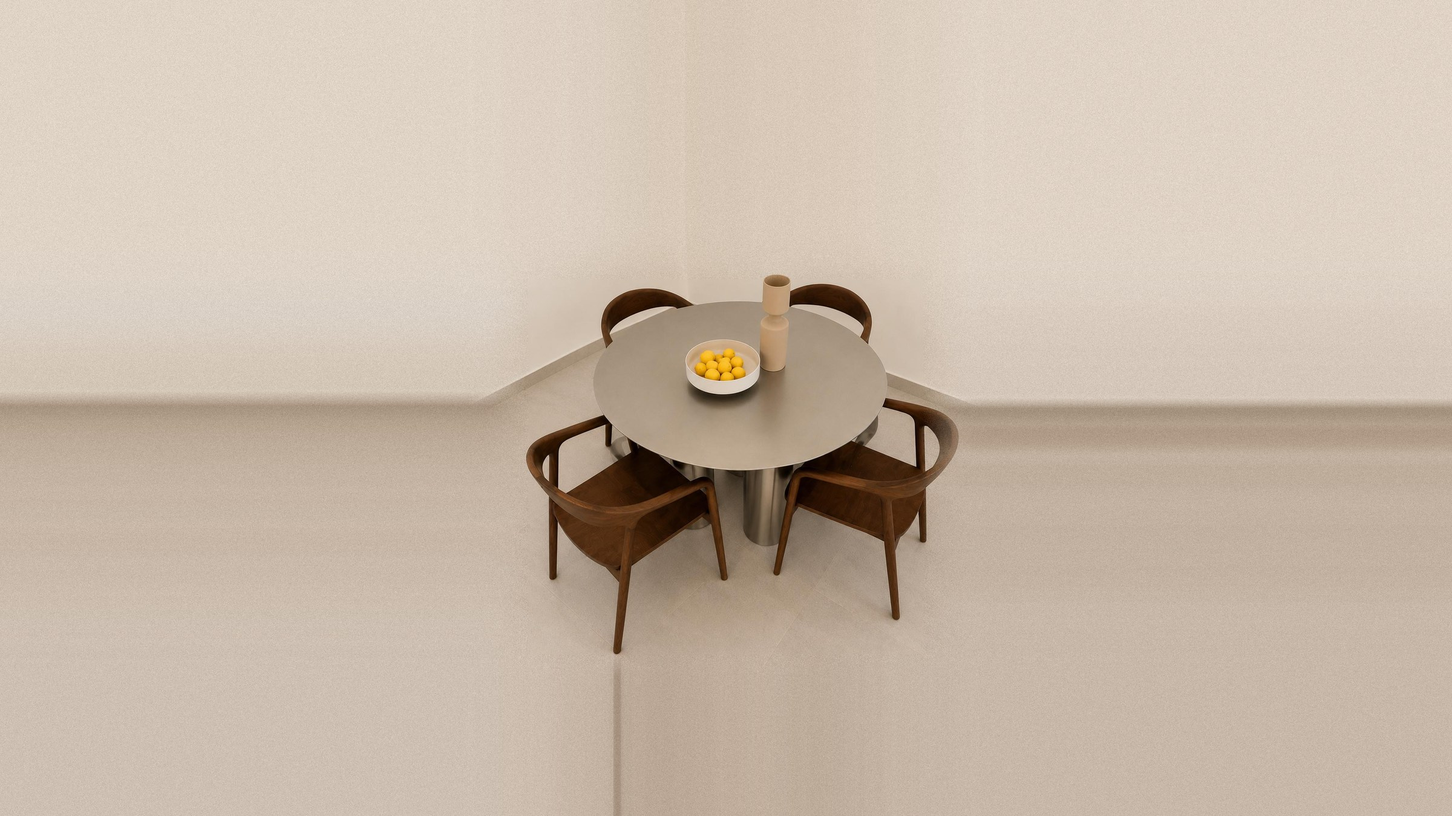
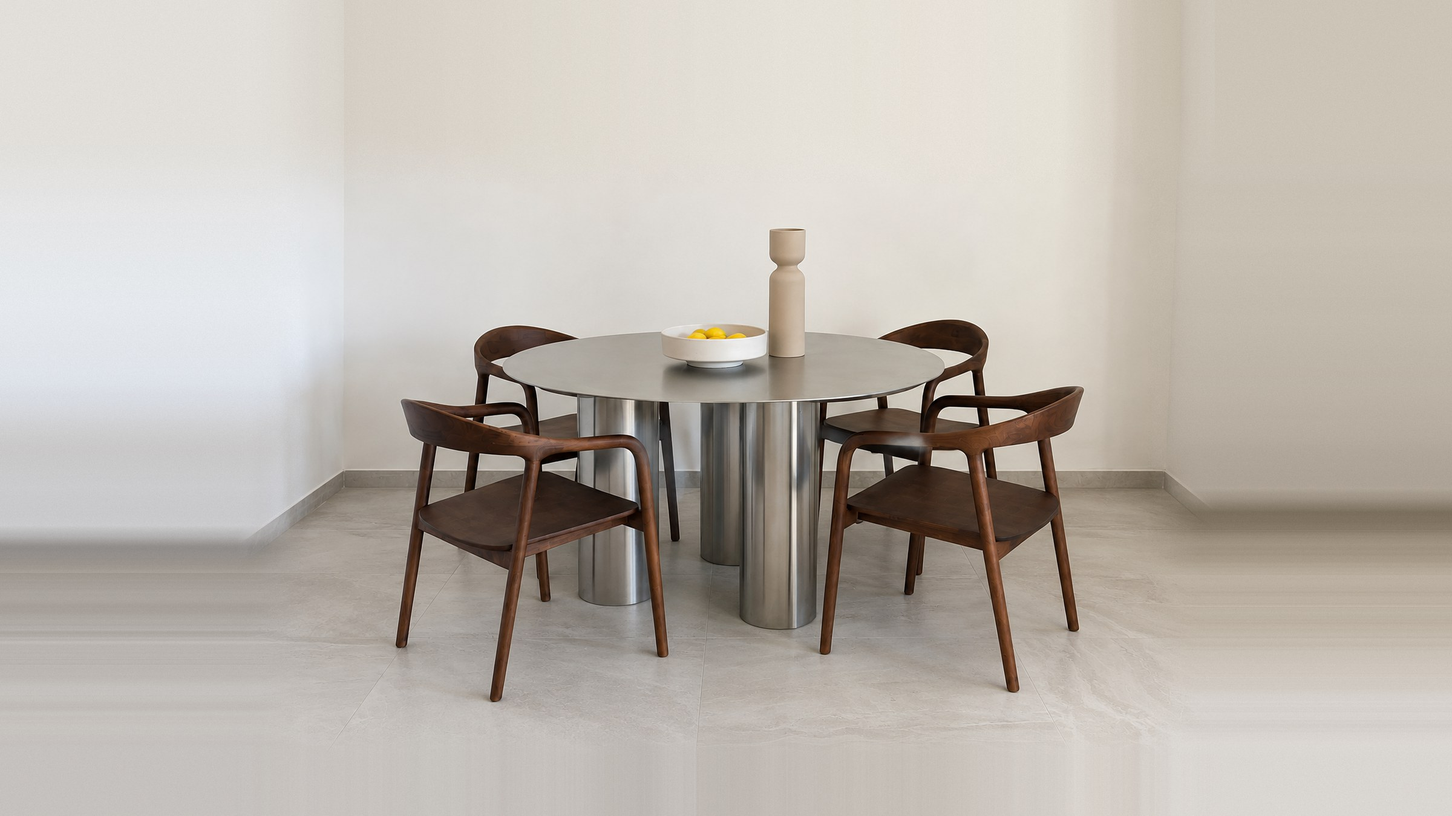
Use the real landscape photograph for the desktop hero (#33)
Replaces the synthetic widescreen asset — which was built by stretching the
square-ish shot and had 74% of its canvas generated — with the landscape
photograph, which needs far less.

The source is 1536x1024 (aspect 1.50) with furniture from 19% to 92% of its
height. Two things kept it from being used directly: the clean bands are too
thin (19% of wall, 8% of floor, against ~28% and ~14% needed for the copy and
the CTA), and 1.50 is narrower than a 1920x1080 viewport, so `cover` would
crop it vertically by a different amount on every landscape screen — exactly
the non-determinism the band system exists to avoid.

So the canvas is extended to 16:9 with the same technique as the previous
asset: per-row and per-column averaging of a 48px edge band so nothing
streaks, a feather bounded by each side's clean margin, and grain matched to
the photo's own noise. Only flat wall and flat floor are extended and no
furniture is invented. Being already landscape, the photo occupies far more of
the frame than the previous crop could.

Landscape bands move 34/20 to 28/14 to match. Mobile and tablet portrait are
untouched and still use Hero_mobile.JPG.

Also points og:image and twitter:image at the new asset: it is what the page
actually shows, and 16:9 suits a share card better than the old 1.1:1 crop.

Six-viewport assertion pass green, screenshots reviewed at phone and laptop.

diff --git a/products/river-box-table/index.html b/products/river-box-table/index.html
@@ -21,7 +21,7 @@
   <link rel="preconnect" href="https://fonts.googleapis.com">
   <link rel="preconnect" href="https://fonts.gstatic.com" crossorigin>
   <link href="https://fonts.googleapis.com/css2?family=Cormorant:ital,wght@0,300;0,400;0,500;1,300;1,400&family=Frank+Ruhl+Libre:wght@300;400;500;700&family=Heebo:wght@300;400;500;600&family=Montserrat:wght@300;400;500;600&display=swap" rel="stylesheet">
-  <link rel="stylesheet" href="/css/styles.css?v=22">
+  <link rel="stylesheet" href="/css/styles.css?v=23">
   <script type="application/ld+json">{"@context": "https://schema.org", "@type": "Product", "name": "Rivet Box Table", "image": ["https://www.steelo-design.com/images/products/RiverBoxTable/1.webp", "https://www.steelo-design.com/images/products/RiverBoxTable/2.webp"], "sku": "river-box-table", "brand": {"@type": "Brand", "name": "Steelo"}, "category": "שידת צד", "material": "נירוסטה 304", "offers": {"@type": "Offer", "url": "https://www.steelo-design.com/products/river-box-table/", "priceCurrency": "ILS", "price": 1200, "availability": "https://schema.org/InStock", "itemCondition": "https://schema.org/NewCondition"}, "description": "מפרט טכני: • חומר: 100% נירוסטה (Stainless Steel) • מידות: 40×30×49 ס״מ (אורך × רוחב × גובה) • גימור: מתכת מלוטשת וקלה לתחזוקה. שידת צד מינימליסטית שמשלבת אסתטיקה תעשייתית עם פונקציונליות יומיומית. המבנה הגיאומטרי הנקי ושורת הניטים החשופים מעניקים לה נוכחות על-זמנית שמתאימה לכל חלל. • מתאים כשולחן צד, שידת לילה או יחידת אחסון קומפקטית. • כולל שני מדפים לאחסון ספרים וחפצים יומיומיים."}</script>
   <script type="application/ld+json">{"@context": "https://schema.org", "@type": "BreadcrumbList", "itemListElement": [{"@type": "ListItem", "position": 1, "name": "בית", "item": "https://www.steelo-design.com/"}, {"@type": "ListItem", "position": 2, "name": "הקולקציה", "item": "https://www.steelo-design.com/#collection"}, {"@type": "ListItem", "position": 3, "name": "Rivet Box Table", "item": "https://www.steelo-design.com/products/river-box-table/"}]}</script>
 </head>

diff --git a/products/ripple/index.html b/products/ripple/index.html
@@ -21,7 +21,7 @@
   <link rel="preconnect" href="https://fonts.googleapis.com">
   <link rel="preconnect" href="https://fonts.gstatic.com" crossorigin>
   <link href="https://fonts.googleapis.com/css2?family=Cormorant:ital,wght@0,300;0,400;0,500;1,300;1,400&family=Frank+Ruhl+Libre:wght@300;400;500;700&family=Heebo:wght@300;400;500;600&family=Montserrat:wght@300;400;500;600&display=swap" rel="stylesheet">
-  <link rel="stylesheet" href="/css/styles.css?v=22">
+  <link rel="stylesheet" href="/css/styles.css?v=23">
   <script type="application/ld+json">{"@context": "https://schema.org", "@type": "Product", "name": "Ripple Stool", "image": ["https://www.steelo-design.com/images/products/RippleStool/1.webp", "https://www.steelo-design.com/images/products/RippleStool/2.webp"], "sku": "ripple", "brand": {"@type": "Brand", "name": "Steelo"}, "category": "מגזינים", "material": "ברזל צבוע", "offers": {"@type": "Offer", "url": "https://www.steelo-design.com/products/ripple/", "priceCurrency": "ILS", "price": 450, "availability": "https://schema.org/InStock", "itemCondition": "https://schema.org/NewCondition"}, "description": "סטול ורסטילי בעיצוב גלי, שמשלב אסתטיקה מודרנית עם עוצמה תעשייתית. ה‑RIPPLE הוא שידת צד מנירוסטה-stool בעיצוב מינימליסטי השואב השראה מתנועת האדווה, עשוי מתכת בגימור כסוף מטאלי שמעניק לו מראה נקי, יוקרתי ומתוחכם. בזכות המבנה החכם והאוורירי שלו, הוא יכול לשמש כשרפרף ישיבה מסוגנן, שולחן צד אלגנטי לצד הספה, שידת לילה ייחודית או מעמד למגזינים וספרים."}</script>
   <script type="application/ld+json">{"@context": "https://schema.org", "@type": "BreadcrumbList", "itemListElement": [{"@type": "ListItem", "position": 1, "name": "בית", "item": "https://www.steelo-design.com/"}, {"@type": "ListItem", "position": 2, "name": "הקולקציה", "item": "https://www.steelo-design.com/#collection"}, {"@type": "ListItem", "position": 3, "name": "Ripple Stool", "item": "https://www.steelo-design.com/products/ripple/"}]}</script>
 </head>

diff --git a/products/elephant-dining/index.html b/products/elephant-dining/index.html
@@ -21,7 +21,7 @@
   <link rel="preconnect" href="https://fonts.googleapis.com">
   <link rel="preconnect" href="https://fonts.gstatic.com" crossorigin>
   <link href="https://fonts.googleapis.com/css2?family=Cormorant:ital,wght@0,300;0,400;0,500;1,300;1,400&family=Frank+Ruhl+Libre:wght@300;400;500;700&family=Heebo:wght@300;400;500;600&family=Montserrat:wght@300;400;500;600&display=swap" rel="stylesheet">
-  <link rel="stylesheet" href="/css/styles.css?v=22">
+  <link rel="stylesheet" href="/css/styles.css?v=23">
   <script type="application/ld+json">{"@context": "https://schema.org", "@type": "Product", "name": "Elephant Dining", "image": ["https://www.steelo-design.com/images/products/ElephantDining/1.webp", "https://www.steelo-design.com/images/products/ElephantDining/2.webp"], "sku": "elephant-dining", "brand": {"@type": "Brand", "name": "Steelo"}, "category": "שולחן אוכל", "material": "נירוסטה 304", "offers": {"@type": "Offer", "url": "https://www.steelo-design.com/products/elephant-dining/", "priceCurrency": "ILS", "price": 5000, "availability": "https://schema.org/InStock", "itemCondition": "https://schema.org/NewCondition"}, "description": "שולחן אוכל Elephant Leg הוא הצהרה עיצובית יוצאת דופן. השולחן מציג נוכחות מרשימה, המשלבת בין חומריות תעשייתית לבין קווים גיאומטריים מתוחכמים. השולחן מתאים לאירוח של 5-7 סועדים, עשוי נירוסטה איכותית בגימור מלוטש ויוקרתי. המבנה שלו מדגיש את היופי הגולמי של המתכת תוך שמירה על מראה נקי, מודרני וקליל באופן מפתיע."}</script>
   <script type="application/ld+json">{"@context": "https://schema.org", "@type": "BreadcrumbList", "itemListElement": [{"@type": "ListItem", "position": 1, "name": "בית", "item": "https://www.steelo-design.com/"}, {"@type": "ListItem", "position": 2, "name": "הקולקציה", "item": "https://www.steelo-design.com/#collection"}, {"@type": "ListItem", "position": 3, "name": "Elephant Dining", "item": "https://www.steelo-design.com/products/elephant-dining/"}]}</script>
 </head>

diff --git a/products/plie/index.html b/products/plie/index.html
@@ -21,7 +21,7 @@
   <link rel="preconnect" href="https://fonts.googleapis.com">
   <link rel="preconnect" href="https://fonts.gstatic.com" crossorigin>
   <link href="https://fonts.googleapis.com/css2?family=Cormorant:ital,wght@0,300;0,400;0,500;1,300;1,400&family=Frank+Ruhl+Libre:wght@300;400;500;700&family=Heebo:wght@300;400;500;600&family=Montserrat:wght@300;400;500;600&display=swap" rel="stylesheet">
-  <link rel="stylesheet" href="/css/styles.css?v=22">
+  <link rel="stylesheet" href="/css/styles.css?v=23">
   <script type="application/ld+json">{"@context": "https://schema.org", "@type": "Product", "name": "Plié", "image": ["https://www.steelo-design.com/images/products/PLIE/1.webp", "https://www.steelo-design.com/images/products/PLIE/2.webp", "https://www.steelo-design.com/images/products/PLIE/3.webp", "https://www.steelo-design.com/images/products/PLIE/4.webp"], "sku": "plie", "brand": {"@type": "Brand", "name": "Steelo"}, "category": "שולחן סלון", "material": "נירוסטה 304", "offers": {"@type": "Offer", "url": "https://www.steelo-design.com/products/plie/", "priceCurrency": "ILS", "price": 2700, "availability": "https://schema.org/InStock", "itemCondition": "https://schema.org/NewCondition"}, "description": "Plié הוא שולחן סלון מנירוסטה מוברשת בעיצוב מינימליסטי ונקי, בהשראת עבודותיה של המעצבת הצרפתייה Maria Pergay. הוא מיוצר מכיפוף מתכת רציף שיוצר צורה אלגנטית וייחודית, עם מקום אחסון למגזינים, ספרים ועיתונים בתוך רגלי השולחן. השולחן מתאים לסלון מודרני, חלל אירוח או משרד."}</script>
   <script type="application/ld+json">{"@context": "https://schema.org", "@type": "BreadcrumbList", "itemListElement": [{"@type": "ListItem", "position": 1, "name": "בית", "item": "https://www.steelo-design.com/"}, {"@type": "ListItem", "position": 2, "name": "הקולקציה", "item": "https://www.steelo-design.com/#collection"}, {"@type": "ListItem", "position": 3, "name": "Plié", "item": "https://www.steelo-design.com/products/plie/"}]}</script>
 </head>

diff --git a/products/loop/index.html b/products/loop/index.html
@@ -21,7 +21,7 @@
   <link rel="preconnect" href="https://fonts.googleapis.com">
   <link rel="preconnect" href="https://fonts.gstatic.com" crossorigin>
   <link href="https://fonts.googleapis.com/css2?family=Cormorant:ital,wght@0,300;0,400;0,500;1,300;1,400&family=Frank+Ruhl+Libre:wght@300;400;500;700&family=Heebo:wght@300;400;500;600&family=Montserrat:wght@300;400;500;600&display=swap" rel="stylesheet">
-  <link rel="stylesheet" href="/css/styles.css?v=22">
+  <link rel="stylesheet" href="/css/styles.css?v=23">
   <script type="application/ld+json">{"@context": "https://schema.org", "@type": "Product", "name": "Loop", "image": ["https://www.steelo-design.com/images/products/LoopSideTable/1.webp", "https://www.steelo-design.com/images/products/LoopSideTable/2.webp", "https://www.steelo-design.com/images/products/LoopSideTable/3.webp"], "sku": "loop", "brand": {"@type": "Brand", "name": "Steelo"}, "category": "שידת צד", "material": "נירוסטה 304", "offers": {"@type": "Offer", "url": "https://www.steelo-design.com/products/loop/", "priceCurrency": "ILS", "price": 1200, "availability": "https://schema.org/InStock", "itemCondition": "https://schema.org/NewCondition"}, "description": "שולחן Loop בעיצוב מינימליסטי וייחודי שמתאים לכל מקום בבית. בזכות המראה הנקי והמבריק שלו, הוא משדרג בקלות כל חלל ומשלב בין סטייל לפרקטיקה. רב-שימושי: מתאים כשולחן צד לסלון, שולחן קפה קטן או כשידת לילה מעוצבת ליד המיטה. עשוי נירוסטה איכותית עם ליטוש ידני למראה יוקרתי ועמידות לאורך זמן."}</script>
   <script type="application/ld+json">{"@context": "https://schema.org", "@type": "BreadcrumbList", "itemListElement": [{"@type": "ListItem", "position": 1, "name": "בית", "item": "https://www.steelo-design.com/"}, {"@type": "ListItem", "position": 2, "name": "הקולקציה", "item": "https://www.steelo-design.com/#collection"}, {"@type": "ListItem", "position": 3, "name": "Loop", "item": "https://www.steelo-design.com/products/loop/"}]}</script>
 </head>

diff --git a/products/magazine-rack-curves/index.html b/products/magazine-rack-curves/index.html
@@ -21,7 +21,7 @@
   <link rel="preconnect" href="https://fonts.googleapis.com">
   <link rel="preconnect" href="https://fonts.gstatic.com" crossorigin>
   <link href="https://fonts.googleapis.com/css2?family=Cormorant:ital,wght@0,300;0,400;0,500;1,300;1,400&family=Frank+Ruhl+Libre:wght@300;400;500;700&family=Heebo:wght@300;400;500;600&family=Montserrat:wght@300;400;500;600&display=swap" rel="stylesheet">
-  <link rel="stylesheet" href="/css/styles.css?v=22">
+  <link rel="stylesheet" href="/css/styles.css?v=23">
   <script type="application/ld+json">{"@context": "https://schema.org", "@type": "Product", "name": "Magazine Rack Curves", "image": ["https://www.steelo-design.com/images/products/MagazineRackCurves/1.webp", "https://www.steelo-design.com/images/products/MagazineRackCurves/2.webp"], "sku": "magazine-rack-curves", "brand": {"@type": "Brand", "name": "Steelo"}, "category": "מגזינים", "material": "ברזל צבוע", "offers": {"@type": "Offer", "url": "https://www.steelo-design.com/products/magazine-rack-curves/", "priceCurrency": "ILS", "price": 450, "availability": "https://schema.org/InStock", "itemCondition": "https://schema.org/NewCondition"}, "description": "שדרגו את חלל העבודה או המגורים עם מעמד מגזינים בעיצוב תעשייתי גיאומטרי. המתקן, בצבע נירוסטה, מציע מבנה מתכת פתוח עם קימורים עדינים שיוצרים מראה קליל ואוורירי. עם תאים מרווחים המאפשרים שליפה נוחה, הוא הופך את ערימת הניירת לפריט דקורטיבי שפשוט אי אפשר להתעלם ממנו."}</script>
   <script type="application/ld+json">{"@context": "https://schema.org", "@type": "BreadcrumbList", "itemListElement": [{"@type": "ListItem", "position": 1, "name": "בית", "item": "https://www.steelo-design.com/"}, {"@type": "ListItem", "position": 2, "name": "הקולקציה", "item": "https://www.steelo-design.com/#collection"}, {"@type": "ListItem", "position": 3, "name": "Magazine Rack Curves", "item": "https://www.steelo-design.com/products/magazine-rack-curves/"}]}</script>
 </head>

diff --git a/products/rectangular-l/index.html b/products/rectangular-l/index.html
@@ -21,7 +21,7 @@
   <link rel="preconnect" href="https://fonts.googleapis.com">
   <link rel="preconnect" href="https://fonts.gstatic.com" crossorigin>
   <link href="https://fonts.googleapis.com/css2?family=Cormorant:ital,wght@0,300;0,400;0,500;1,300;1,400&family=Frank+Ruhl+Libre:wght@300;400;500;700&family=Heebo:wght@300;400;500;600&family=Montserrat:wght@300;400;500;600&display=swap" rel="stylesheet">
-  <link rel="stylesheet" href="/css/styles.css?v=22">
+  <link rel="stylesheet" href="/css/styles.css?v=23">
   <script type="application/ld+json">{"@context": "https://schema.org", "@type": "Product", "name": "Rectangular L", "image": ["https://www.steelo-design.com/images/products/RectangularLivingRoom/1.webp", "https://www.steelo-design.com/images/products/RectangularLivingRoom/2.webp"], "sku": "rectangular-l", "brand": {"@type": "Brand", "name": "Steelo"}, "category": "שולחן סלון", "material": "נירוסטה 304", "offers": {"@type": "Offer", "url": "https://www.steelo-design.com/products/rectangular-l/", "priceCurrency": "ILS", "price": 2500, "availability": "https://schema.org/InStock", "itemCondition": "https://schema.org/NewCondition"}, "description": "שולחן סלון נירוסטה בעיצוב נקי ועוצמתי. מציג סילואט מודרני ונקי, עשוי נירוסטה 304 מוברשת בעובי 3.5 מ\"מ. פריט בעל נוכחות דומיננטית המעניק לחלל המגורים מראה תעשייתי יוקרתי, על-זמני ומתוחכם."}</script>
   <script type="application/ld+json">{"@context": "https://schema.org", "@type": "BreadcrumbList", "itemListElement": [{"@type": "ListItem", "position": 1, "name": "בית", "item": "https://www.steelo-design.com/"}, {"@type": "ListItem", "position": 2, "name": "הקולקציה", "item": "https://www.steelo-design.com/#collection"}, {"@type": "ListItem", "position": 3, "name": "Rectangular L", "item": "https://www.steelo-design.com/products/rectangular-l/"}]}</script>
 </head>

diff --git a/products/rectangular-s/index.html b/products/rectangular-s/index.html
@@ -21,7 +21,7 @@
   <link rel="preconnect" href="https://fonts.googleapis.com">
   <link rel="preconnect" href="https://fonts.gstatic.com" crossorigin>
   <link href="https://fonts.googleapis.com/css2?family=Cormorant:ital,wght@0,300;0,400;0,500;1,300;1,400&family=Frank+Ruhl+Libre:wght@300;400;500;700&family=Heebo:wght@300;400;500;600&family=Montserrat:wght@300;400;500;600&display=swap" rel="stylesheet">
-  <link rel="stylesheet" href="/css/styles.css?v=22">
+  <link rel="stylesheet" href="/css/styles.css?v=23">
   <script type="application/ld+json">{"@context": "https://schema.org", "@type": "Product", "name": "Rectangular S", "image": ["https://www.steelo-design.com/images/products/RectangularLivingRoom/1.webp", "https://www.steelo-design.com/images/products/RectangularLivingRoom/2.webp"], "sku": "rectangular-s", "brand": {"@type": "Brand", "name": "Steelo"}, "category": "שולחן סלון", "material": "נירוסטה 304", "offers": {"@type": "Offer", "url": "https://www.steelo-design.com/products/rectangular-s/", "priceCurrency": "ILS", "price": 2300, "availability": "https://schema.org/InStock", "itemCondition": "https://schema.org/NewCondition"}, "description": "שולחן סלון נירוסטה בעיצוב נקי ועוצמתי. מציג סילואט מודרני ונקי, עשוי נירוסטה 304 מוברשת בעובי 3.5 מ\"מ. פריט בעל נוכחות דומיננטית המעניק לחלל המגורים מראה תעשייתי יוקרתי, על-זמני ומתוחכם."}</script>
   <script type="application/ld+json">{"@context": "https://schema.org", "@type": "BreadcrumbList", "itemListElement": [{"@type": "ListItem", "position": 1, "name": "בית", "item": "https://www.steelo-design.com/"}, {"@type": "ListItem", "position": 2, "name": "הקולקציה", "item": "https://www.steelo-design.com/#collection"}, {"@type": "ListItem", "position": 3, "name": "Rectangular S", "item": "https://www.steelo-design.com/products/rectangular-s/"}]}</script>
 </head>

diff --git a/products/elephant-low/index.html b/products/elephant-low/index.html
@@ -21,7 +21,7 @@
   <link rel="preconnect" href="https://fonts.googleapis.com">
   <link rel="preconnect" href="https://fonts.gstatic.com" crossorigin>
   <link href="https://fonts.googleapis.com/css2?family=Cormorant:ital,wght@0,300;0,400;0,500;1,300;1,400&family=Frank+Ruhl+Libre:wght@300;400;500;700&family=Heebo:wght@300;400;500;600&family=Montserrat:wght@300;400;500;600&display=swap" rel="stylesheet">
-  <link rel="stylesheet" href="/css/styles.css?v=22">
+  <link rel="stylesheet" href="/css/styles.css?v=23">
   <script type="application/ld+json">{"@context": "https://schema.org", "@type": "Product", "name": "Elephant Low", "image": ["https://www.steelo-design.com/images/products/ElephantLowTable/1.webp", "https://www.steelo-design.com/images/products/ElephantLowTable/2.webp"], "sku": "elephant-low", "brand": {"@type": "Brand", "name": "Steelo"}, "category": "שולחן סלון", "material": "נירוסטה 304", "offers": {"@type": "Offer", "url": "https://www.steelo-design.com/products/elephant-low/", "priceCurrency": "ILS", "price": 2500, "availability": "https://schema.org/InStock", "itemCondition": "https://schema.org/NewCondition"}, "description": "שולחן סלון מנירוסטה בעיצוב מודרני ומשחקי שמביא פרשנות חדשה לחלל המגורים. עם צללית עגולה, בסיס רחב ויציב ומראה ארכיטקטוני ייחודי, הוא מדגיש נוכחות דומיננטית ופשטות אלגנטית."}</script>
   <script type="application/ld+json">{"@context": "https://schema.org", "@type": "BreadcrumbList", "itemListElement": [{"@type": "ListItem", "position": 1, "name": "בית", "item": "https://www.steelo-design.com/"}, {"@type": "ListItem", "position": 2, "name": "הקולקציה", "item": "https://www.steelo-design.com/#collection"}, {"@type": "ListItem", "position": 3, "name": "Elephant Low", "item": "https://www.steelo-design.com/products/elephant-low/"}]}</script>
 </head>

diff --git a/products/three-level/index.html b/products/three-level/index.html
@@ -21,7 +21,7 @@
   <link rel="preconnect" href="https://fonts.googleapis.com">
   <link rel="preconnect" href="https://fonts.gstatic.com" crossorigin>
   <link href="https://fonts.googleapis.com/css2?family=Cormorant:ital,wght@0,300;0,400;0,500;1,300;1,400&family=Frank+Ruhl+Libre:wght@300;400;500;700&family=Heebo:wght@300;400;500;600&family=Montserrat:wght@300;400;500;600&display=swap" rel="stylesheet">
-  <link rel="stylesheet" href="/css/styles.css?v=22">
+  <link rel="stylesheet" href="/css/styles.css?v=23">
   <script type="application/ld+json">{"@context": "https://schema.org", "@type": "Product", "name": "Three Level", "image": ["https://www.steelo-design.com/images/products/ThreeLevel/1.webp", "https://www.steelo-design.com/images/products/ThreeLevel/2.webp"], "sku": "three-level", "brand": {"@type": "Brand", "name": "Steelo"}, "category": "שולחן סלון", "material": "נירוסטה 304", "offers": {"@type": "Offer", "url": "https://www.steelo-design.com/products/three-level/", "priceCurrency": "ILS", "price": 1900, "availability": "https://schema.org/InStock", "itemCondition": "https://schema.org/NewCondition"}, "description": "שולחן סלון נירוסטה בעיצוב אינדסטריאל שיק עם שלושה מפלסים, נוכחות פיסולית ומראה גולמי מינימליסטי. מתאים כשולחן סלון, שולחן צד, שולחן קפה או כפיס עם אופי לחלל המגורים."}</script>
   <script type="application/ld+json">{"@context": "https://schema.org", "@type": "BreadcrumbList", "itemListElement": [{"@type": "ListItem", "position": 1, "name": "בית", "item": "https://www.steelo-design.com/"}, {"@type": "ListItem", "position": 2, "name": "הקולקציה", "item": "https://www.steelo-design.com/#collection"}, {"@type": "ListItem", "position": 3, "name": "Three Level", "item": "https://www.steelo-design.com/products/three-level/"}]}</script>
 </head>

diff --git a/products/nordic/index.html b/products/nordic/index.html
@@ -21,7 +21,7 @@
   <link rel="preconnect" href="https://fonts.googleapis.com">
   <link rel="preconnect" href="https://fonts.gstatic.com" crossorigin>
   <link href="https://fonts.googleapis.com/css2?family=Cormorant:ital,wght@0,300;0,400;0,500;1,300;1,400&family=Frank+Ruhl+Libre:wght@300;400;500;700&family=Heebo:wght@300;400;500;600&family=Montserrat:wght@300;400;500;600&display=swap" rel="stylesheet">
-  <link rel="stylesheet" href="/css/styles.css?v=22">
+  <link rel="stylesheet" href="/css/styles.css?v=23">
   <script type="application/ld+json">{"@context": "https://schema.org", "@type": "Product", "name": "Nordic", "image": ["https://www.steelo-design.com/images/products/Nordic/1.webp", "https://www.steelo-design.com/images/products/Nordic/2.webp", "https://www.steelo-design.com/images/products/Nordic/3.webp"], "sku": "nordic", "brand": {"@type": "Brand", "name": "Steelo"}, "category": "שידת צד", "material": "נירוסטה 304", "offers": {"@type": "Offer", "url": "https://www.steelo-design.com/products/nordic/", "priceCurrency": "ILS", "price": 1100, "availability": "https://schema.org/InStock", "itemCondition": "https://schema.org/NewCondition"}, "description": "שידת צד מנירוסטה בעיצוב נורדי מינימליסטי, שמשלבת אסתטיקה מודרנית עם איכות ועמידות. עשויה 100% נירוסטה איכותית ומתאימה לכל פינה בבית."}</script>
   <script type="application/ld+json">{"@context": "https://schema.org", "@type": "BreadcrumbList", "itemListElement": [{"@type": "ListItem", "position": 1, "name": "בית", "item": "https://www.steelo-design.com/"}, {"@type": "ListItem", "position": 2, "name": "הקולקציה", "item": "https://www.steelo-design.com/#collection"}, {"@type": "ListItem", "position": 3, "name": "Nordic", "item": "https://www.steelo-design.com/products/nordic/"}]}</script>
 </head>

diff --git a/products/c-table/index.html b/products/c-table/index.html
@@ -21,7 +21,7 @@
   <link rel="preconnect" href="https://fonts.googleapis.com">
   <link rel="preconnect" href="https://fonts.gstatic.com" crossorigin>
   <link href="https://fonts.googleapis.com/css2?family=Cormorant:ital,wght@0,300;0,400;0,500;1,300;1,400&family=Frank+Ruhl+Libre:wght@300;400;500;700&family=Heebo:wght@300;400;500;600&family=Montserrat:wght@300;400;500;600&display=swap" rel="stylesheet">
-  <link rel="stylesheet" href="/css/styles.css?v=22">
+  <link rel="stylesheet" href="/css/styles.css?v=23">
   <script type="application/ld+json">{"@context": "https://schema.org", "@type": "Product", "name": "C-Table", "image": ["https://www.steelo-design.com/images/products/C-Table/1.webp", "https://www.steelo-design.com/images/products/C-Table/2.webp", "https://www.steelo-design.com/images/products/C-Table/3.webp", "https://www.steelo-design.com/images/products/C-Table/4.webp"], "sku": "c-table", "brand": {"@type": "Brand", "name": "Steelo"}, "category": "שידת צד", "material": "נירוסטה 304", "offers": {"@type": "Offer", "url": "https://www.steelo-design.com/products/c-table/", "priceCurrency": "ILS", "price": 990, "availability": "https://schema.org/InStock", "itemCondition": "https://schema.org/NewCondition"}, "description": "נשכן עשוי 100% נירוסטה מרשים, מלא בסטייל, נקי, קלאסי ויוקרתי, ניתן לשימוש גם בתור שולחן צד"}</script>
   <script type="application/ld+json">{"@context": "https://schema.org", "@type": "BreadcrumbList", "itemListElement": [{"@type": "ListItem", "position": 1, "name": "בית", "item": "https://www.steelo-design.com/"}, {"@type": "ListItem", "position": 2, "name": "הקולקציה", "item": "https://www.steelo-design.com/#collection"}, {"@type": "ListItem", "position": 3, "name": "C-Table", "item": "https://www.steelo-design.com/products/c-table/"}]}</script>
 </head>
